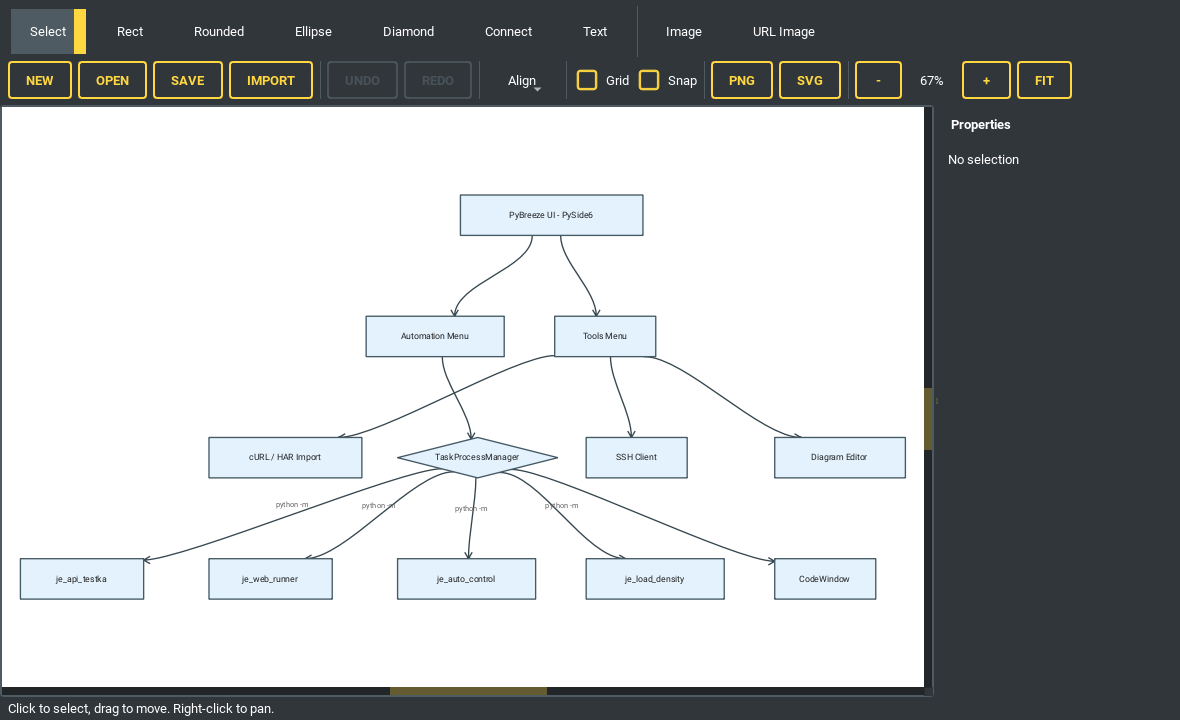
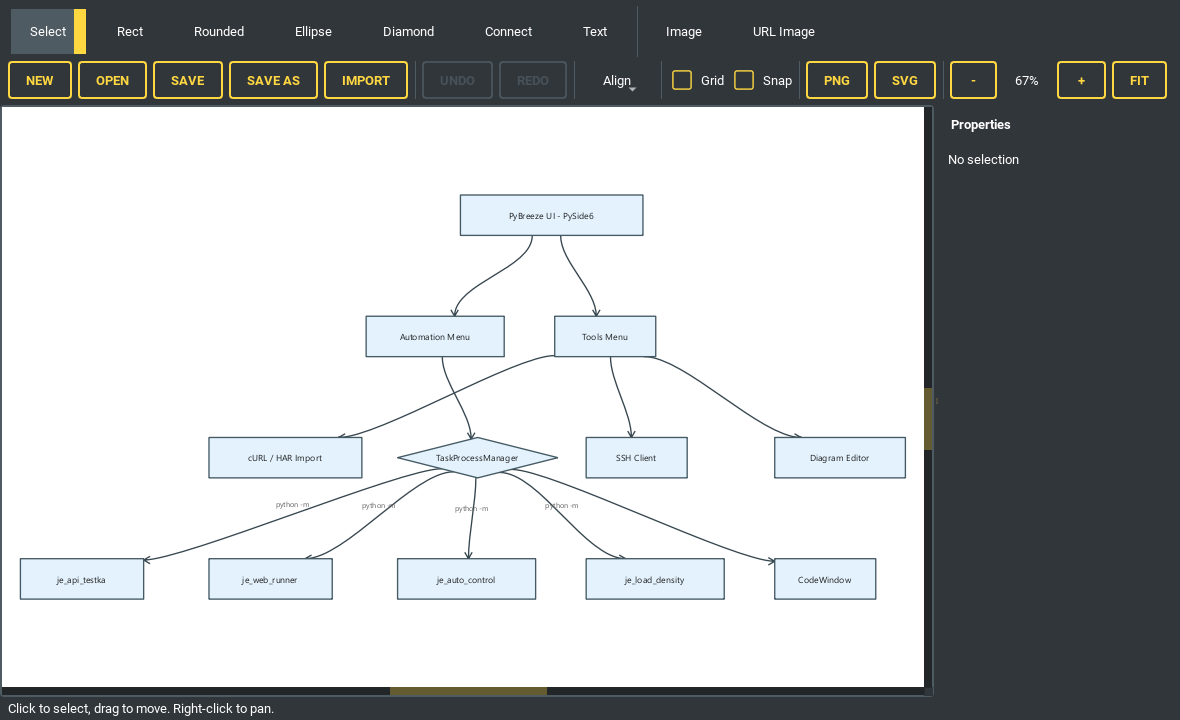
Redo the README screenshots that no longer match the IDE

diff --git a/docs/updates/2026-09-b.md b/docs/updates/2026-09-b.md
@@ -880,3 +880,10 @@ Continues [2026-09.md](2026-09.md), which passed the batch size limit. Index and
 - **Docs**: the three READMEs' Text Diff section and its screenshot `images/tool_diff.png` (same sample and size, now in colour), `architecture.md` §6 (`actually_color_dict` users), `architecture_explore.md` (diff tool, test count).
 - **Files**: `pybreeze/pybreeze_ui/tools_gui/diff_gui.py`, `test/test_utils/test_diff_gui.py`, `test/test_utils/test_jeditor_contract.py`, `images/tool_diff.png`, `README.md`, `README/README_zh-TW.md`, `README/README_zh-CN.md`, `architecture.md`, `architecture_explore.md`
 - **Open items**: none.
+
+## U-20260924-297 · 2026-09-24 · README screenshots of the SSH tab, the run window and the diagram editor redone · #docs
+
+- **What**: the README screenshots date from 2026-08-03 (867acab), and 90 commits have touched the tool tabs, the run window and the diagram editor since. Checked each against a render of the current widget under dark_amber. Stale: `ssh_client.png` (no Browse… for the key file, no Interrupt), `run_output_window.png` (no Stop button, the proportional font, and the generated test's indentation was not visible) and `diagram_editor.png` (no Save As in the toolbar). `tool_diff.png` was redone with U-20260924-296. The tool tabs whose layout did not change (response inspector, header analyzer and the rest) and the Tools menu still match.
+- **Change**: the three redone at their old sizes (1180 x 640, 900 x 620, 1180 x 720) with the same content: the SSH tab disconnected; a real run of a script that turns a curl command into a pytest test, through `FileRunnerProcess`; the same diagram, imported from Mermaid and fitted (67 %). Rendered at a scale of 1 (`QT_ENABLE_HIGHDPI_SCALING=0`; the machine is at 125 %) and with Qt's FreeType engine (`-platform windows:fontengine=freetype`), whose greyscale antialiasing matches the old images: ClearType's colour fringes made the grey edge labels look orange.
+- **Files**: `images/ssh_client.png`, `images/run_output_window.png`, `images/diagram_editor.png`, `images/tool_diff.png`
+- **Open items**: none.

diff --git a/docs/updates/README.md b/docs/updates/README.md
@@ -58,6 +58,7 @@ In the same commit: delete the item from `progress.md`, add a `#done` entry here
 
 | ID | Date | Title | Tags | Batch |
 |---|---|---|---|---|
+| U-20260924-297 | 2026-09-24 | README screenshots of the SSH tab, the run window and the diagram editor redone | #docs | [2026-09-b](2026-09-b.md) |
 | U-20260924-296 | 2026-09-24 | The diff tool shows its diff in colour | #feature #ui | [2026-09-b](2026-09-b.md) |
 | U-20260924-295 | 2026-09-24 | Automation keywords readable on a light theme | #fix #ui #jeditor | [2026-09-b](2026-09-b.md) |
 | U-20260924-294 | 2026-09-24 | The terminal font holds under the IDE's theme | #fix #ssh #ui | [2026-09-b](2026-09-b.md) |
@@ -378,4 +379,4 @@ In the same commit: delete the item from `progress.md`, add a `#done` entry here
 | File | Period | Entries |
 |---|---|---:|
 | [2026-09.md](2026-09.md) | 2026-09 | 218 |
-| [2026-09-b.md](2026-09-b.md) | 2026-09 | 94 |
+| [2026-09-b.md](2026-09-b.md) | 2026-09 | 95 |
